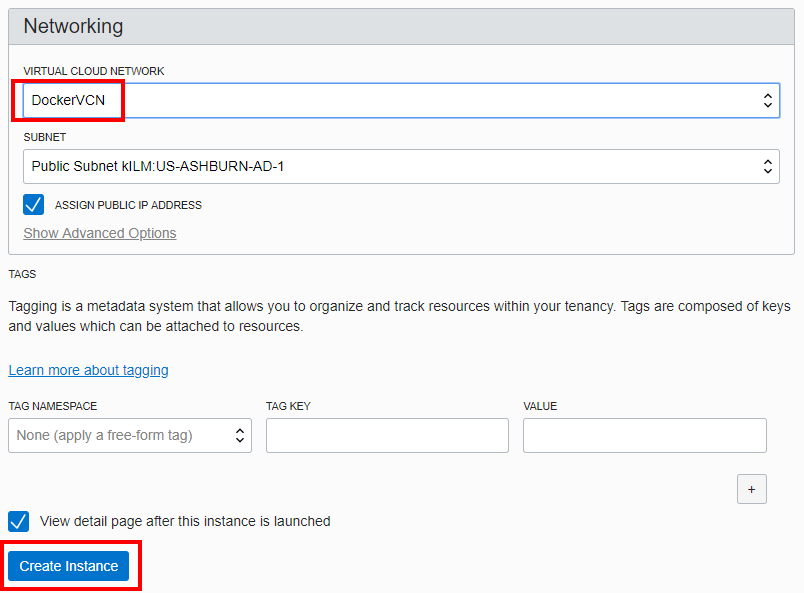
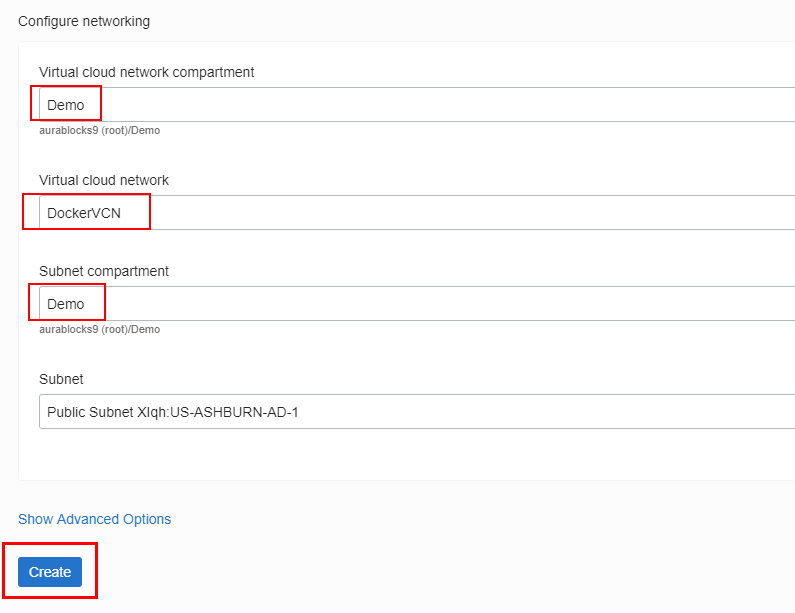
updated for new Compute UI

diff --git a/workshops/docker/Linux050.md b/workshops/docker/Linux050.md
@@ -157,6 +157,8 @@ For the purposes of the upcoming Docker deployments we need to add five Ingress 
 
 - Click **Edit All Rules** and then select **+ Another Ingress Rule**
 
+  **NOTE: DO NOT EDIT AN ALREADY EXISTING RULE, ADD NEW ONES...**
+
     ![](images/050Linux/19.PNG)
 
     ![](images/050Linux/Linux050-c8ef545e.png)
@@ -252,32 +254,40 @@ You will now create a Linux based Compute instance using the public key you just
 
    ![](images/050Linux/27.PNG)
 
-- **Select or Type** the following in the `Instance` section of the dialog:
+- **Select / Leave Default or Type** the following in the `Create Compute Instance` section of the dialog:
 
 ```
 Name: Docker
-Availability Domain: xxx-AD-1
+Availability Domain: AD 1 (Use default AD 1)
 Boot Volume: Oracle-Provided OS Image
-Image Operating System: Oracle Linux 7.5
-Shape Type: Virtual Machine
-Shape: VM.Standard2.1
+Image Operating System: Oracle Linux 7.5 (Select Oracle Linux 7.5)
+Shape Type: Virtual Machine (Default)
+Shape: VM.Standard2.1 (Default)
 SSH Keys: Choose SSH Key Files
 ```
 
-- You will Browse and select your PUBLIC SSH Key
+- After entering the _Docker_ instance name click the **Change Image Source**.
+
+   ![](images/050Linux/27-2.PNG)
+
+- Select **Oracle Linux 7.5** and click **Select**.
+
+   ![](images/050Linux/27-4.PNG)
+
+- This selection will now be shown on the page:
+
+   ![](images/050Linux/27-6.PNG)
+
+- Scroll down furthur on the page and select your PUBLIC SSH Key
 **NOTE:** You will paste the public key you copied in Step 7 into the SSH KEY field by selecting the "Paste SSH Keys" radio button. `The public key should all be on ONE LINE`
 
    ![](images/050Linux/28.PNG)
 
-- In the Network Section **Select** the following:
-
-```
-Virtual Cloud Network: DockerVCN
-```
+- In the Configure networking Section you will take ALL of the defaults as shown:
 
    ![](images/050Linux/29.PNG)
 
-- Click **Create Instance**
+- Click **Create**
 
 After a few minutes you should see a running instance with a Public IP Address.
 
